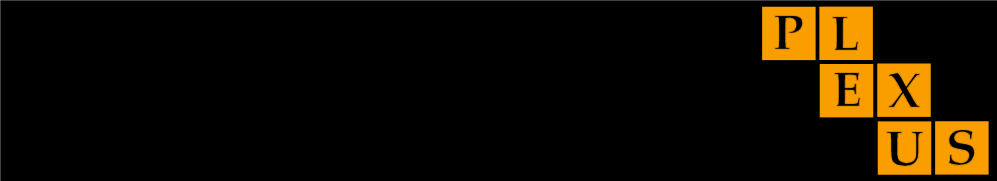
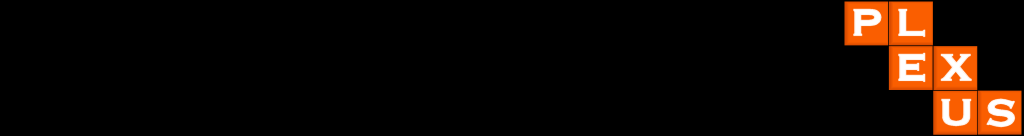
Cleaning up Plexus HUD

Changed region(s): [[0.0, 0.0, 1.0, 1.0]]

diff --git a/SauerbratenRemote/src/fpsgame/fps.cpp b/SauerbratenRemote/src/fpsgame/fps.cpp
@@ -844,7 +844,7 @@ struct fpsclient : igameclient
         glOrtho(0, w, h, 0, -1, 1);
 		settexture(-1 == mysocket ? "hud_disconnect.png" : "hud_connect.png", true);
         glBlendFunc(GL_SRC_ALPHA, GL_ONE_MINUS_SRC_ALPHA);
-        quad(w - 56, h-120, 48, 48);   
+        quad(w - 46, h-126, 44, 44);   
 
   //      glLoadIdentity();
   //      glOrtho(0, w*900/h, 900, 0, -1, 1);
@@ -855,9 +855,9 @@ struct fpsclient : igameclient
 		//	draw_textf("Connected",  90, 822);
 
         glLoadIdentity();
-        glOrtho(0, w*900/h, 900, 0, -1, 1);
+        glOrtho(0, w*900/h, 830, 0, -1, 1);
 
-		draw_textf("%d",  800, 770, peers);
+		draw_textf("Online: %d",  800, 770, peers);
 	}
 #else
     void gameplayhud(int w, int h)
